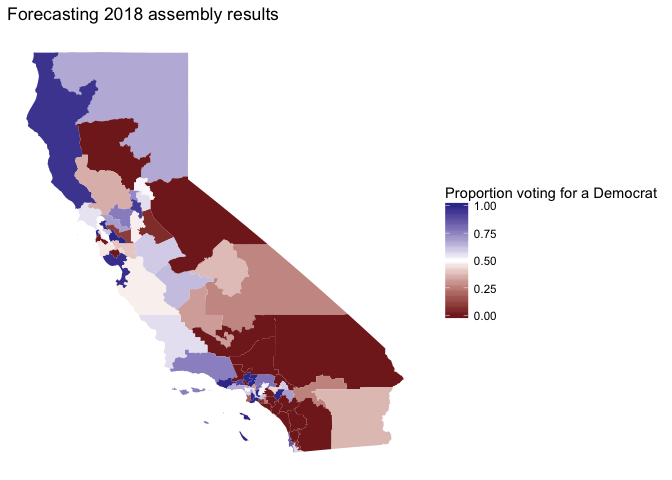
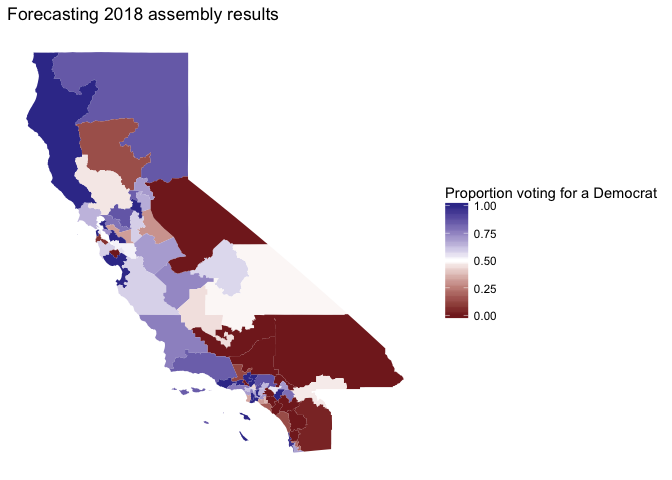
hopefully the last commit

Changed region(s): [[0.0625, 0.0938, 0.5938, 0.9375]]

diff --git a/FinalProject/TheWork/FinalProject.md b/FinalProject/TheWork/FinalProject.md
@@ -445,19 +445,7 @@ Results <- Results %>%
 Results["perc_prez_DemLag2"][is.na(Results["perc_prez_DemLag2"])] <- 0
 Resultsmodel <- Results
 
-Resultsmodel["incumbentparty"][is.na(Resultsmodel["incumbentparty"])] <- 0
-Resultsmodel[c("perc_Dem",
-          "perc_Repub",
-          "perc_prez_Dem",
-          "perc_sen_Dem",
-          "perc_sen2_Dem",
-          "perc_gub_Dem")][is.na(Resultsmodel[c("perc_Dem",
-                                           "perc_Repub",
-                                           "perc_prez_Dem",
-                                           "perc_sen_Dem",
-                                           "perc_sen2_Dem",
-                                           "perc_gub_Dem")])] <- .0
-Resultsmodel["Leg_winner"][is.na(Resultsmodel["Leg_winner"])] <- "No election"
+
 
 Resultsmodel <- Resultsmodel %>%
   mutate(perc_prez_DemLag2 = (lag(perc_prez_Dem, 240) +
@@ -564,30 +552,30 @@ summary(m8)
     ##     chamdist)
     ##    Data: Resultsmodel
     ## 
-    ## REML criterion at convergence: 1250.5
+    ## REML criterion at convergence: 574.3
     ## 
     ## Scaled residuals: 
     ##     Min      1Q  Median      3Q     Max 
-    ## -1.1762 -0.7866 -0.6057  0.9202  2.2716 
+    ## -1.9008 -0.6554  0.1190  0.6470  1.7071 
     ## 
     ## Random effects:
     ##  Groups   Name        Variance Std.Dev.
-    ##  chamdist (Intercept) 0.005419 0.07361 
-    ##  Residual             0.117520 0.34281 
-    ## Number of obs: 1680, groups:  chamdist, 120
+    ##  chamdist (Intercept) 0.003337 0.05777 
+    ##  Residual             0.101579 0.31871 
+    ## Number of obs: 957, groups:  chamdist, 120
     ## 
     ## Fixed effects:
-    ##                  Estimate Std. Error t value
-    ## (Intercept)      0.290337   0.039343   7.380
-    ## mid_penalty      0.001937   0.012008   0.161
-    ## incumbentparty   0.346479   0.017002  20.378
-    ## perc_sen_DemLag -0.007427   0.067419  -0.110
+    ##                 Estimate Std. Error t value
+    ## (Intercept)      0.43504    0.04686   9.285
+    ## mid_penalty     -0.02445    0.01459  -1.676
+    ## incumbentparty   0.27936    0.01667  16.757
+    ## perc_sen_DemLag  0.13329    0.08159   1.634
     ## 
     ## Correlation of Fixed Effects:
     ##             (Intr) md_pnl incmbn
-    ## mid_penalty -0.087              
-    ## incmbntprty  0.249 -0.110       
-    ## prc_sn_DmLg -0.961  0.115 -0.292
+    ## mid_penalty -0.088              
+    ## incmbntprty  0.359 -0.130       
+    ## prc_sn_DmLg -0.967  0.106 -0.412
 
 ``` r
 #Simpler model but t-values are higher
@@ -630,14 +618,11 @@ Calc_err(perc_Dem ~
              (1|chamdist))
 ```
 
-    ## [1] 129.1577
+    ## [1] 130.1011
 
 ### Using the model to predict 2018 results
 
 ``` r
-Resultsmodel[c("incumbentparty",
-             "perc_sen_DemLag")][is.na(Resultsmodel[c("incumbentparty",
-                                                     "perc_sen_DemLag")])] <- 0
 Resultsfin <- full_join(Resultsmodel, df2018, by = c("year",
                                              "chamber",
                                              "chamdist",
